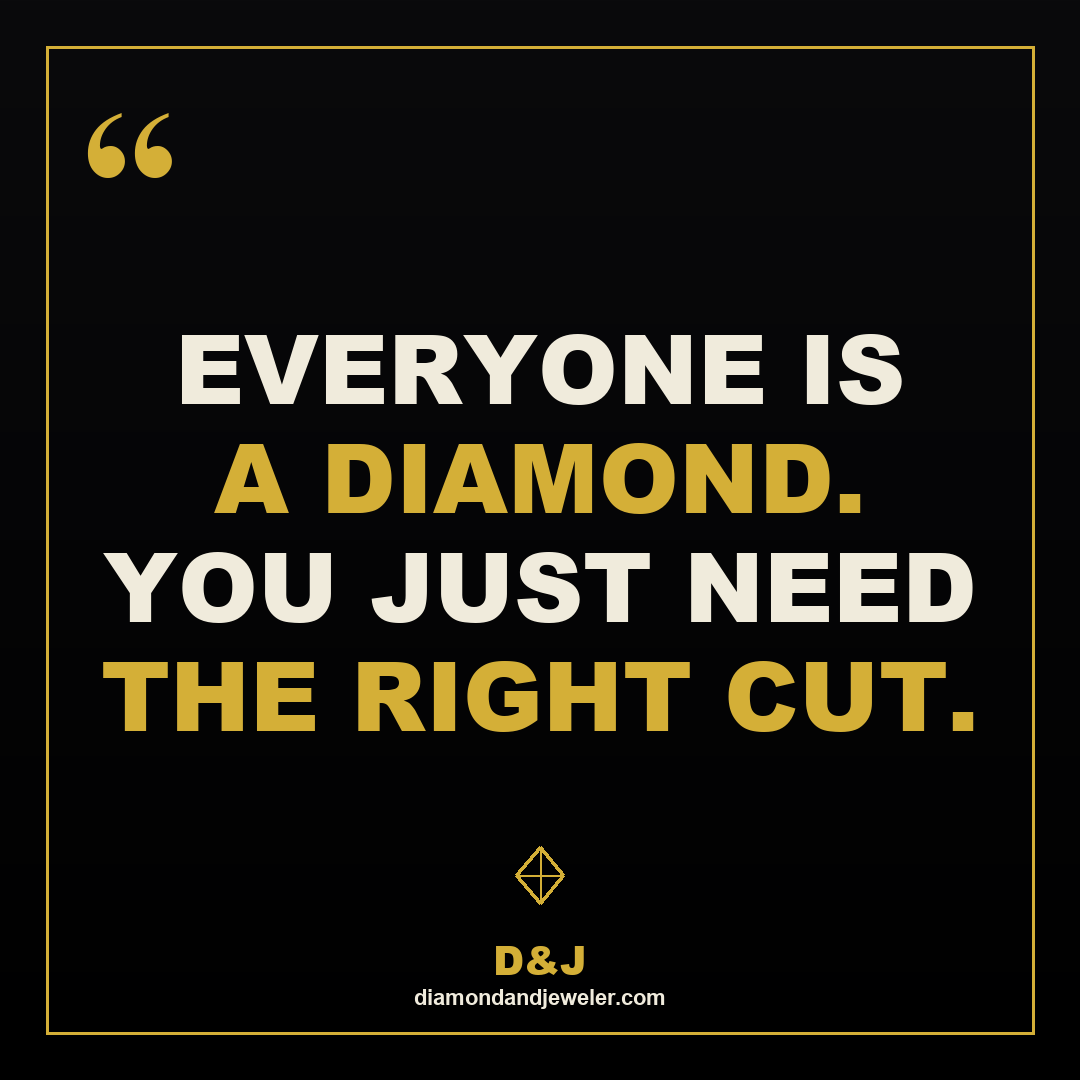
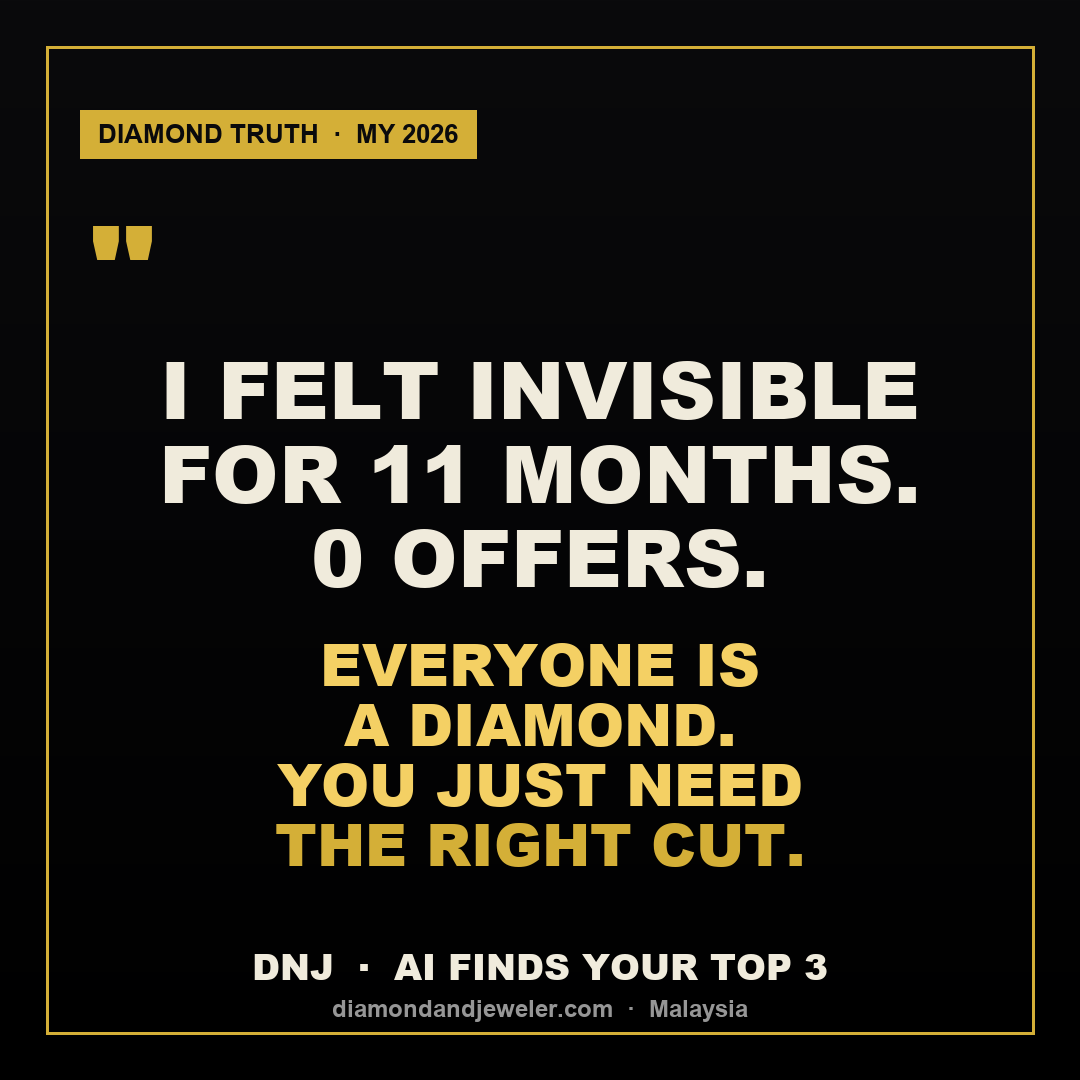
redesign Day 44 + Day 46 covers per viral-framework-2026
Day 44 carousel slide 1:
- Red accent banner: 70% OF GRADS GET GHOSTED · MY 2026 (auto-fit)
- Named method: "Career Reality #1 — THE GHOST WALL"
- Subline: ghosted by recruiter · cari kerja · MY

Day 46 quote (resonance pattern):
- Yellow tag accent: DIAMOND TRUTH · MY 2026
- Resonance: "I FELT INVISIBLE FOR 11 MONTHS. 0 OFFERS."
- Reframe in gold: "EVERYONE IS A DIAMOND. YOU JUST NEED THE RIGHT CUT."
- Brand strip: DNJ · AI FINDS YOUR TOP 3

diff --git a/marketing/instagram/content/make_framework_covers.py b/marketing/instagram/content/make_framework_covers.py
@@ -149,7 +149,97 @@ def render_day39_quote(path):
     print(f"OK -> {path}")
 
 
+# ---------- Day 44 slide 1 — career reality (method pattern) ----------
+def render_day44_slide1(path):
+    img = bg(); d = ImageDraw.Draw(img); border(d)
+
+    # ACCENT — red banner top with stat-style hook
+    banner_h = 110
+    d.rectangle([46, 100, S-46, 100+banner_h], fill=RED)
+    # auto-fit banner to width
+    banner_text = "70% OF GRADS GET GHOSTED  ·  MY 2026"
+    bsz = 50
+    while bsz > 28:
+        bf = ImageFont.truetype(FONT_HEAD, bsz)
+        bb = d.textbbox((0, 0), banner_text, font=bf)
+        if bb[2]-bb[0] <= S-160:
+            break
+        bsz -= 2
+    text_center(d, 100 + (banner_h-bsz)//2 - 4, banner_text, bf, OFFWHITE)
+
+    # MAIN HEADLINE — career reality, numbered
+    head = ["CAREER", "REALITY", "#1 — THE", "GHOST WALL"]
+    sz = fit(head, 130, S-150, minf=80)
+    f = ImageFont.truetype(FONT_HEAD, sz)
+    step = int(sz*1.05)
+    total = step*(len(head)-1)+sz
+    sy = 320
+    for i, ln in enumerate(head):
+        col = GOLD if "GHOST" in ln else OFFWHITE
+        text_center(d, sy+i*step, ln, f, col)
+
+    # SUBLINE — niche search keyword (compact)
+    sub = "ghosted by recruiter  ·  cari kerja  ·  MY"
+    sf = ImageFont.truetype(FONT_BODY, 30)
+    text_center(d, sy+total+50, sub, sf, GREY)
+
+    # CTA strip
+    sw_f = ImageFont.truetype(FONT_BODY, 30)
+    text_center(d, S-110, "SAVE  ·  SWIPE  ->", sw_f, GOLD_L)
+
+    img.save(path, "PNG", optimize=True)
+    print(f"OK -> {path}")
+
+
+# ---------- Day 46 quote — resonance pattern ----------
+def render_day46_quote(path):
+    img = bg(); d = ImageDraw.Draw(img); border(d)
+
+    # ACCENT — small yellow tag (top-left)
+    tag_text = "DIAMOND TRUTH  ·  MY 2026"
+    tagf = ImageFont.truetype(FONT_BODY, 26)
+    bb = d.textbbox((0, 0), tag_text, font=tagf)
+    tag_w = bb[2]-bb[0] + 36
+    tag_h = 48
+    d.rectangle([80, 110, 80+tag_w, 110+tag_h], fill=GOLD)
+    d.text((98, 110+(tag_h-26)//2 - 2), tag_text, fill=BLACK, font=tagf)
+
+    # OPENING quote mark
+    qf = ImageFont.truetype(FONT_HEAD, 130)
+    d.text((90, 175), '"', fill=GOLD, font=qf)
+
+    # RESONANCE LINE (offwhite) — the felt experience
+    res = ["I FELT INVISIBLE", "FOR 11 MONTHS.", "0 OFFERS."]
+    rsz = fit(res, 80, S-200, minf=50)
+    rf = ImageFont.truetype(FONT_HEAD, rsz)
+    rstep = int(rsz*1.06)
+    ry = 330
+    for i, ln in enumerate(res):
+        text_center(d, ry+i*rstep, ln, rf, OFFWHITE)
+
+    # REFRAME LINE (gold) — the reveal
+    re_lines = ["EVERYONE IS", "A DIAMOND.", "YOU JUST NEED", "THE RIGHT CUT."]
+    rfsz = fit(re_lines, 58, S-200, minf=38)
+    rff = ImageFont.truetype(FONT_HEAD, rfsz)
+    rfstep = int(rfsz*1.04)
+    rfy = ry + rstep*len(res) + 40
+    for i, ln in enumerate(re_lines):
+        col = GOLD if i == 3 else GOLD_L
+        text_center(d, rfy+i*rfstep, ln, rff, col)
+
+    # OUTCOME / brand strip — text-only
+    of = ImageFont.truetype(FONT_HEAD, 36)
+    text_center(d, S-140, "DNJ  ·  AI FINDS YOUR TOP 3", of, OFFWHITE)
+    uf = ImageFont.truetype(FONT_BODY, 24)
+    text_center(d, S-85, "diamondandjeweler.com  ·  Malaysia", uf, GREY)
+
+    img.save(path, "PNG", optimize=True)
+    print(f"OK -> {path}")
+
+
 if __name__ == "__main__":
     render_day34_slide1(os.path.join(OUT_CAR, "day34-salary-negotiation-1.png"))
     render_day39_quote(os.path.join(OUT_Q, "q-day39-reveal.png"))
+    render_day44_slide1(os.path.join(OUT_CAR, "day44-career-reality-1.png"))
+    render_day46_quote(os.path.join(OUT_Q, "q-day46-cut.png"))
     print("\nFramework-aligned covers regenerated.")